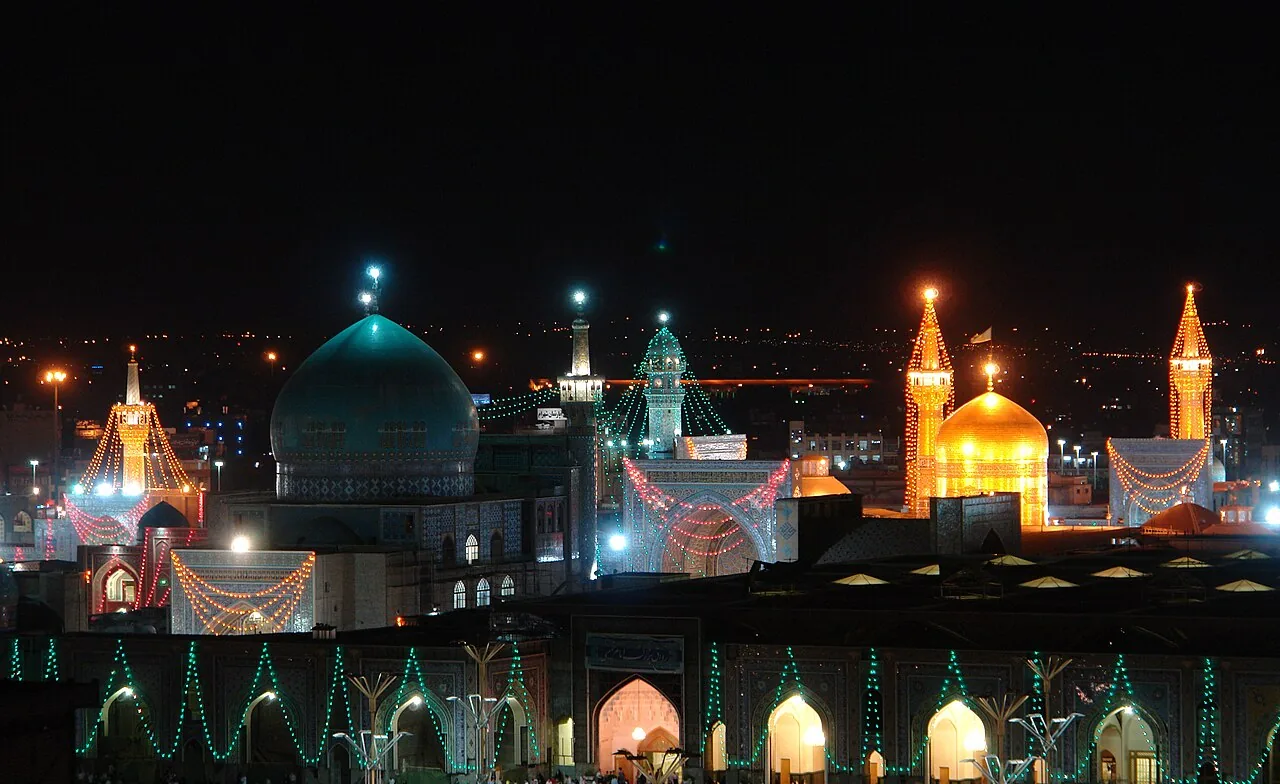
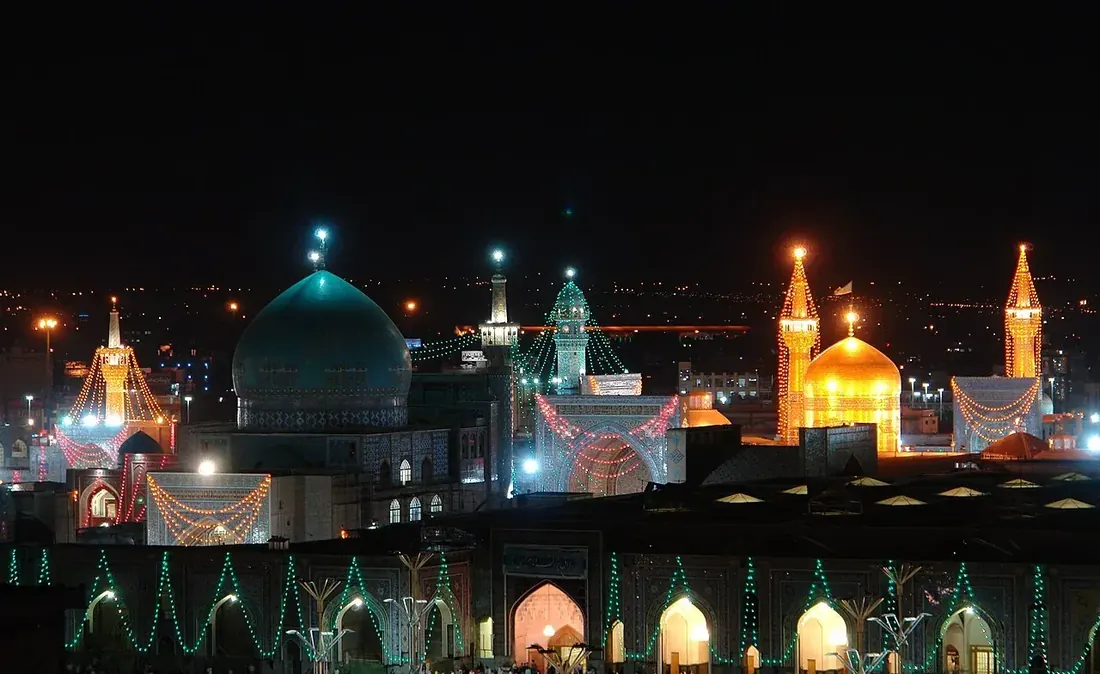
Optimize homepage hero image delivery for mobile

diff --git a/index.html b/index.html
@@ -22,6 +22,7 @@
 <link rel="icon" type="image/png" sizes="512x512" href="assets/images/android-chrome-512x512.png">
 <link rel="manifest" href="site.webmanifest">
 <title>السفر إلى مشهد المقدسة | حسين، رفيق الزائر العربي</title>
+<link rel="preload" as="image" href="assets/images/a3-560.webp" imagesrcset="assets/images/a3-420.webp 420w, assets/images/a3-560.webp 560w, assets/images/a3-672.webp 672w" imagesizes="(max-width: 619px) 67vw, (max-width: 899px) 47vw, 690px" fetchpriority="high">
 <link rel="stylesheet" href="styles.css">
 <script type="application/ld+json">{"@context":"https://schema.org","@type":"Person","name":"حسين","description":"مرافق شخصي للزوار العرب إلى مشهد، مع المساعدة في تنسيق تفاصيل الرحلة.","knowsAbout":["السياحة الدينية في مشهد","زيارة حرم الإمام الرضا","تنسيق الرحلات"]}</script>
 <script type="application/ld+json">{"@context":"https://schema.org","@type":"FAQPage","mainEntity":[{"@type":"Question","name":"كيف أبدأ التخطيط لزيارة مشهد؟","acceptedAnswer":{"@type":"Answer","text":"أرسل موعد السفر التقريبي وعدد المسافرين واحتياجاتك الأساسية عبر واتساب، ثم تحقّق من تفاصيل الخدمات والتكاليف قبل أي حجز."}},{"@type":"Question","name":"هل حسين شركة سياحية؟","acceptedAnswer":{"@type":"Answer","text":"لا، يقدم حسين مرافقة شخصية وتنسيقاً للتفاصيل التي يتم الاتفاق عليها. التوافر والتكلفة ونطاق كل خدمة يجب تأكيدها قبل الالتزام."}},{"@type":"Question","name":"هل يمكن الاستفسار عن السياحة العلاجية؟","acceptedAnswer":{"@type":"Answer","text":"يمكن الاستفسار عن تنظيم التواصل وترتيبات السفر، لكن الطبيب المختص هو من يحدد ملاءمة العلاج، ولا تُعد المعلومات المنشورة تشخيصاً أو توصية طبية."}}]}</script>
@@ -30,7 +31,7 @@
 <a class="skip" href="#main">انتقل إلى المحتوى</a>
 <header class="header"><a class="brand" href="#top"><img class="brand-logo" src="assets/images/hossein-mashhad-tourism-logo.webp" alt="حسين للسياحة في مشهد" width="1254" height="1254" decoding="async"></a><nav><a href="#journey">رحلتك معي</a><a href="#moments">من مشهد</a><a href="#health">السياحة العلاجية</a></nav><a class="head-link" href="https://wa.me/989915147789?text=%D8%A7%D9%84%D8%B3%D9%84%D8%A7%D9%85%20%D8%B9%D9%84%D9%8A%D9%83%D9%85%D8%8C%20%D8%A3%D9%88%D8%AF%20%D8%A7%D9%84%D8%A7%D8%B3%D8%AA%D9%81%D8%B3%D8%A7%D8%B1%20%D8%B9%D9%86%20%D8%B2%D9%8A%D8%A7%D8%B1%D8%A9%20%D9%85%D8%B4%D9%87%D8%AF%20%D9%88%D8%A7%D9%84%D8%AE%D8%AF%D9%85%D8%A7%D8%AA%20%D8%A7%D9%84%D8%B3%D9%8A%D8%A7%D8%AD%D9%8A%D8%A9.%20%D9%83%D9%8A%D9%81%20%D9%8A%D9%85%D9%83%D9%86%D9%83%D9%85%20%D9%85%D8%B3%D8%A7%D8%B9%D8%AF%D8%AA%D9%8A%D8%9F" target="_blank" rel="noopener noreferrer"><img class="whatsapp-icon" src="assets/images/whatsapp.png" alt="" width="22" height="22" loading="lazy" decoding="async"> تواصل معي ↙</a><button class="menu-toggle" type="button" aria-label="فتح القائمة" aria-controls="site-menu" aria-expanded="false"><span></span><span></span><span></span></button><nav class="site-menu" id="site-menu" hidden aria-label="القائمة الرئيسية"><a href="about-hussein">عن حسين <span>↙</span></a><a href="services">الخدمات <span>↙</span></a><a href="health-tourism">السياحة العلاجية <span>↙</span></a><a href="samples">نماذج البرامج <span>↙</span></a><a href="testimonials">آراء الزوار <span>↙</span></a><a href="blog">دليل السفر إلى مشهد <span>↙</span></a><a class="menu-whatsapp" href="https://wa.me/989915147789" target="_blank" rel="noopener noreferrer"><img class="whatsapp-icon" src="assets/images/whatsapp.png" alt="" width="22" height="22" loading="lazy" decoding="async"> تواصل مع حسين عبر واتساب <span>↙</span></a></nav></header>
 <main id="main">
-<section class="hero" id="top"><div class="hero-visual" aria-label="حرم الإمام الرضا وحسين، مرافق رحلتك"><img class="hero-shrine" src="assets/images/imam-reza-shrine.webp" alt="القبة الذهبية لحرم الإمام الرضا في مشهد" width="1200" height="800" fetchpriority="high" decoding="async"><div class="hero-visual-shade" aria-hidden="true"></div><img class="hero-person" src="assets/images/a3.png" alt="حسين، مضيفك ومرافق رحلتك إلى مشهد" width="672" height="667" decoding="async"></div><div class="hero-content"><p class="eyebrow"><i></i> مشهد المقدسة · إيران</p><p class="intro">السلام عليكم، أنا حسين</p><h1>مرافق سياحي للزائر العربي في مشهد المقدسة <em>— حسين</em></h1><p class="hero-emotional">لستُ شركة سياحية؛ أنا حسين، أرافقك شخصياً.</p>
+<section class="hero" id="top"><div class="hero-visual" aria-label="حرم الإمام الرضا وحسين، مرافق رحلتك"><img class="hero-shrine" src="assets/images/imam-reza-shrine.webp" alt="القبة الذهبية لحرم الإمام الرضا في مشهد" width="1100" height="674" loading="eager" decoding="async"><div class="hero-visual-shade" aria-hidden="true"></div><img class="hero-person" src="assets/images/a3-560.webp" srcset="assets/images/a3-420.webp 420w, assets/images/a3-560.webp 560w, assets/images/a3-672.webp 672w" sizes="(max-width: 619px) 67vw, (max-width: 899px) 47vw, 690px" alt="حسين، مضيفك ومرافق رحلتك إلى مشهد" width="672" height="667" loading="eager" fetchpriority="high" decoding="async"></div><div class="hero-content"><p class="eyebrow"><i></i> مشهد المقدسة · إيران</p><p class="intro">السلام عليكم، أنا حسين</p><h1>مرافق سياحي للزائر العربي في مشهد المقدسة <em>— حسين</em></h1><p class="hero-emotional">لستُ شركة سياحية؛ أنا حسين، أرافقك شخصياً.</p>
 
 <p class="hero-p">أستقبلك كضيف، وأرافقك في تفاصيل رحلتك إلى مشهد؛ من لحظة الوصول، إلى الزيارة والعودة بسلام.</p><p class="hero-assurance">تنسيق شخصي · تفاصيل واضحة · تواصل مباشر</p><div class="actions"><a class="btn" id="hero-whatsapp-link" href="https://wa.me/989915147789?text=%D8%A7%D9%84%D8%B3%D9%84%D8%A7%D9%85%20%D8%B9%D9%84%D9%8A%D9%83%D9%85%D8%8C%20%D8%A3%D9%88%D8%AF%20%D8%A7%D9%84%D8%A7%D8%B3%D8%AA%D9%81%D8%B3%D8%A7%D8%B1%20%D8%B9%D9%86%20%D8%B2%D9%8A%D8%A7%D8%B1%D8%A9%20%D9%85%D8%B4%D9%87%D8%AF%20%D9%88%D8%A7%D9%84%D8%AE%D8%AF%D9%85%D8%A7%D8%AA%20%D8%A7%D9%84%D8%B3%D9%8A%D8%A7%D8%AD%D9%8A%D8%A9.%20%D9%83%D9%8A%D9%81%20%D9%8A%D9%85%D9%83%D9%86%D9%83%D9%85%20%D9%85%D8%B3%D8%A7%D8%B9%D8%AF%D8%AA%D9%8A%D8%9F" target="_blank" rel="noopener noreferrer"><img class="whatsapp-icon" src="assets/images/whatsapp.png" alt="" width="22" height="22" loading="lazy" decoding="async"> لنتحدث عن رحلتك <span>↙</span></a><a class="soft-link" href="#journey">تعرّف على الرحلة ↓</a></div></div><div class="hero-note">زيارةٌ بقلبٍ مطمئن</div><div class="hero-foot"><span>مشهد المقدسة</span><i></i><span>أهلاً بك في مشهد</span></div><div class="seal"><span>أهلاً</span><b>وسهلاً</b><small>ضيفي العزيز</small></div></section>
 <section class="welcome wrap"><div class="kicker"><span>01</span><i></i><span>بكل محبة</span></div><div class="welcome-grid"><h2>أنتم ضيوفي...<br><em>قبل أن تكونوا عملائي.</em></h2><div class="copy"><p>أعرف أن السفر إلى مدينة جديدة قد يثير أسئلة كثيرة. لذلك أؤمن أن أجمل ما في الرحلة ليس المكان وحده، بل أن تجد من يستقبلك باحترام، ويساعدك على الشعور بالراحة من أول لحظة.</p><p>هدفي أن تكون زيارتك إلى مشهد أسهل، وأهدأ، وأقرب إلى ما تتمناه.</p></div></div><div class="stamp">مَشهد<br><span>بسكينة</span></div></section>
